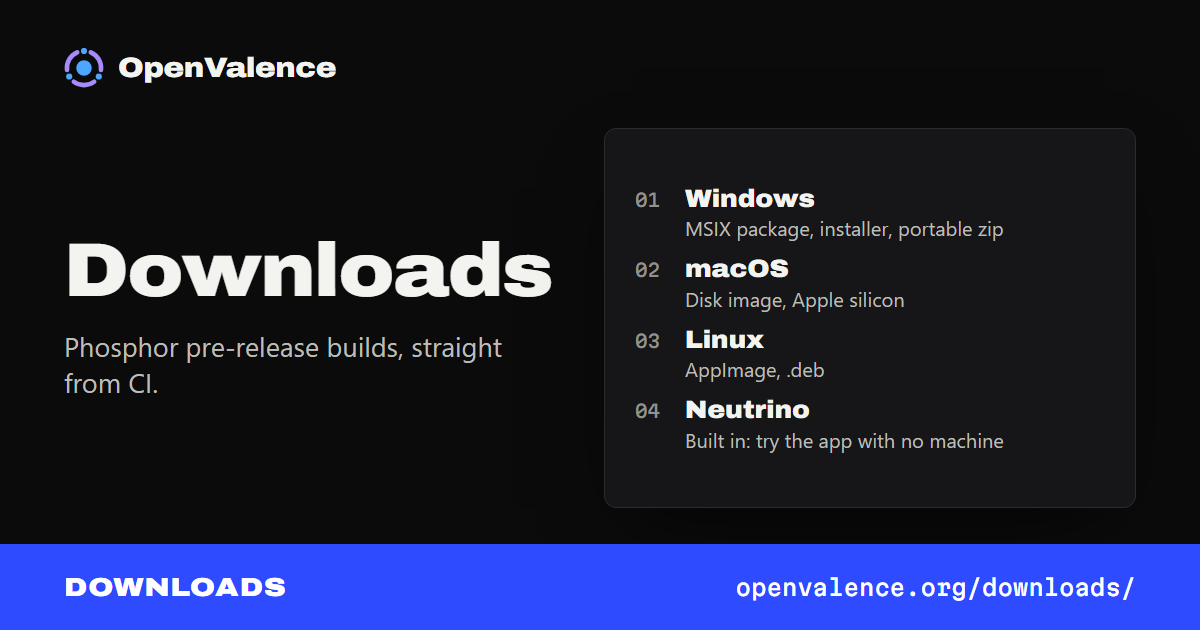
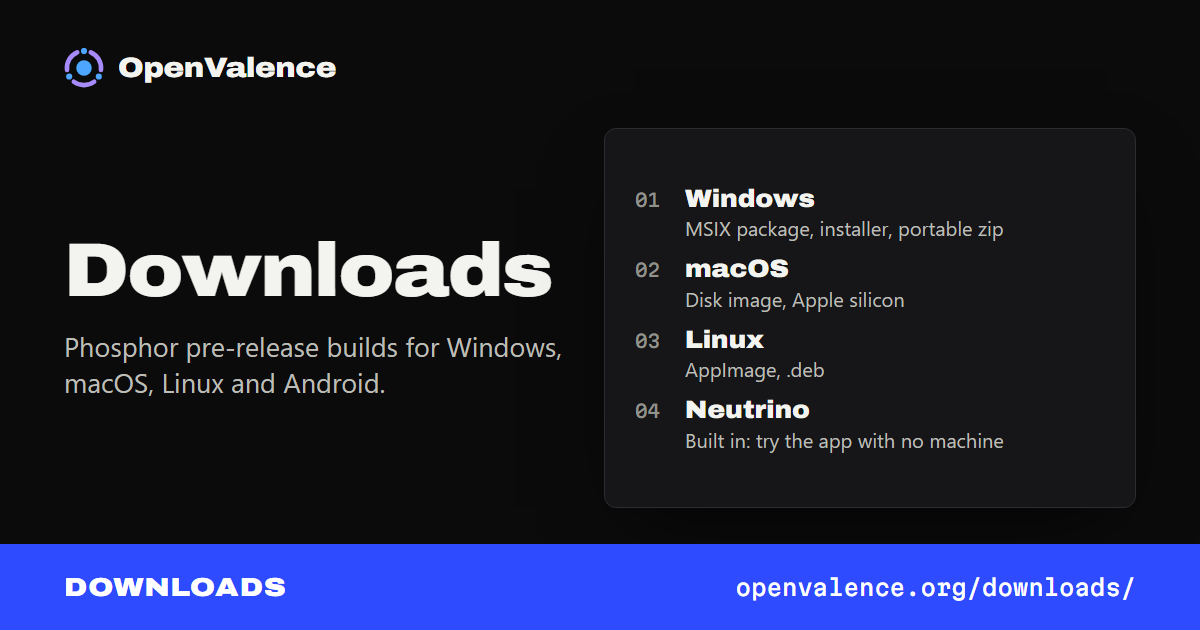
Neutrino has one name on the site: Neutrino, the built-in hub (was also the built-in machine, simulator, machine firmware); downloads card subject names the platforms

Changed region(s): [[0.0617, 0.573, 0.3392, 0.6333], [0.3392, 0.5127, 0.4625, 0.573]]

diff --git a/phosphor/docs/getting-started/index.html b/phosphor/docs/getting-started/index.html
@@ -4,7 +4,7 @@
 <meta charset="utf-8">
 <meta name="viewport" content="width=device-width, initial-scale=1">
 <title>Getting started: OpenValence</title>
-<meta name="description" content="Install Phosphor, launch it, try Neutrino, the built-in machine, with no hardware, then find a real machine. Includes a short tour of the main screens.">
+<meta name="description" content="Install Phosphor, launch it, try Neutrino, the built-in hub, with no hardware, then find a real machine. Includes a short tour of the main screens.">
 <link rel="canonical" href="https://openvalence.org/phosphor/docs/getting-started/">
 <meta property="og:type" content="website">
 <meta property="og:url" content="https://openvalence.org/phosphor/docs/getting-started/">
@@ -71,14 +71,14 @@
 <script src="https://stats.openvalence.org/stats.js" data-website-id="686ef328-490a-4ed2-b9df-1ce896b92dc3" data-domains="openvalence.org" data-do-not-track="true" defer></script>
 <meta property="og:site_name" content="OpenValence">
 <meta property="og:title" content="Getting started: OpenValence">
-<meta property="og:description" content="Install Phosphor, launch it, try Neutrino, the built-in machine, with no hardware, then find a real machine. Includes a short tour of the main screens.">
+<meta property="og:description" content="Install Phosphor, launch it, try Neutrino, the built-in hub, with no hardware, then find a real machine. Includes a short tour of the main screens.">
 <meta property="og:image" content="https://openvalence.org/images/og/phosphor-docs-getting-started.png?v=8151b5a4af">
 <meta property="og:image:width" content="1200">
 <meta property="og:image:height" content="630">
-<meta property="og:image:alt" content="Getting started: OpenValence. Install Phosphor, launch it, try Neutrino, the built-in machine, with no hardware, then find a real machine. Includes a short tour of the main screens.">
+<meta property="og:image:alt" content="Getting started: OpenValence. Install Phosphor, launch it, try Neutrino, the built-in hub, with no hardware, then find a real machine. Includes a short tour of the main screens.">
 <meta name="twitter:card" content="summary_large_image">
 <meta name="twitter:title" content="Getting started: OpenValence">
-<meta name="twitter:description" content="Install Phosphor, launch it, try Neutrino, the built-in machine, with no hardware, then find a real machine. Includes a short tour of the main screens.">
+<meta name="twitter:description" content="Install Phosphor, launch it, try Neutrino, the built-in hub, with no hardware, then find a real machine. Includes a short tour of the main screens.">
 <meta name="twitter:image" content="https://openvalence.org/images/og/phosphor-docs-getting-started.png?v=8151b5a4af">
 <!-- /chrome:head -->
 </head>
@@ -120,7 +120,7 @@
 <main>
   <section class="opening">
     <h1>Getting started</h1>
-    <p>Install Phosphor, try it on Neutrino, the built-in machine, then connect a real one. You do not need hardware for the first half.</p>
+    <p>Install Phosphor, try it on Neutrino, the built-in hub, then connect a real one. You do not need hardware for the first half.</p>
   </section>
 
   <section aria-labelledby="s-install">
@@ -136,7 +136,7 @@ npm run build:app -- --bundles nsis</code></pre>
   <section aria-labelledby="s-launch">
     <h2 id="s-launch" data-n="02">First launch<a class="hl" href="#s-launch" aria-label="Copy link to this section"></a></h2>
     <!-- src/App.svelte:160 (first run opens Hubs), 152-157 (sections); src/model/prefs.js:32 (reconnect default true); docs/DESIGN.md §10.11 lines 1183-1187 -->
-    <p>With no saved hub, Phosphor opens on the Hubs page. That page lists saved hubs, finds new ones and holds Neutrino, the built-in machine. From the second launch on, Phosphor reconnects to the last hub by default. The setting is Settings, Connection, "Reconnect to the last hub on launch", and it is on until you turn it off.</p>
+    <p>With no saved hub, Phosphor opens on the Hubs page. That page lists saved hubs, finds new ones and holds Neutrino, the built-in hub. From the second launch on, Phosphor reconnects to the last hub by default. The setting is Settings, Connection, "Reconnect to the last hub on launch", and it is on until you turn it off.</p>
     <p>The sidebar has three sections. Machine and Valence fill in once a hub's catalog has loaded. Phosphor, the third, is always there.</p>
   </section>
 
@@ -151,7 +151,7 @@ npm run build:app -- --bundles nsis</code></pre>
       <li>Open Dash in the Machine section.</li>
       <li>Open the Generator page, pick a pattern and start it. The rail on the Dash follows it.</li>
     </ol>
-    <figure class="docshot"><picture><source srcset="../img/gs-hubs-light.webp" data-hi="../img/hi/gs-hubs-light.webp" media="(prefers-color-scheme: light)"><img src="../img/gs-hubs-dark.webp" data-hi="../img/hi/gs-hubs-dark.webp" width="1280" height="800" alt="The Hubs page before connecting, with Neutrino, the built-in machine, listed under Saved hubs and the Find a hub controls below it." decoding="async"></picture><figcaption>The Hubs page before connecting.</figcaption></figure>
+    <figure class="docshot"><picture><source srcset="../img/gs-hubs-light.webp" data-hi="../img/hi/gs-hubs-light.webp" media="(prefers-color-scheme: light)"><img src="../img/gs-hubs-dark.webp" data-hi="../img/hi/gs-hubs-dark.webp" width="1280" height="800" alt="The Hubs page before connecting, with Neutrino, the built-in hub, listed under Saved hubs and the Find a hub controls below it." decoding="async"></picture><figcaption>The Hubs page before connecting.</figcaption></figure>
     <ol class="legend">
       <li>The Neutrino row, under Saved hubs.</li>
       <li>Connect starts it.</li>

diff --git a/privacy.html b/privacy.html
@@ -152,7 +152,7 @@
       <div><dt>Plugins and the pages they load</dt><dd>The app allows plugins to fetch <code>http</code> and <code>https</code> URLs. The plugins that ship with the app only contact addresses you configured. A plugin you install from elsewhere can contact whatever its author wrote it to; read its manifest before enabling it.</dd></div>
       <div><dt>Other programs on your computer</dt><dd>Phosphor runs a Buttplug server so that other software can drive the machine and your toys through it. It listens on the loopback address only (<code>127.0.0.1</code>, port 12345 by default), so only programs on the same computer can reach it. It never listens on your network unless you change that setting.</dd></div>
       <div><dt>Firmware updates</dt><dd>When you pick a firmware file, the app asks openvalence.org for our firmware list (flash/fw/index.json) to label it Official or Unrecognized. Nothing about the file or your machine is sent; the comparison runs on your computer. The file goes only to your machine.</dd></div>
-      <div><dt>Neutrino, the built-in simulator</dt><dd>It runs inside the app, as WebAssembly, and makes no network connections of its own.</dd></div>
+      <div><dt>Neutrino, the built-in hub</dt><dd>It runs inside the app, as WebAssembly, and makes no network connections of its own.</dd></div>
     </dl>
     <p>The app does not check for updates by itself. Updates arrive through whatever installed it: Flathub, or a download from GitHub.</p>
   </section>

diff --git a/downloads/index.html b/downloads/index.html
@@ -72,14 +72,14 @@
 <meta property="og:site_name" content="OpenValence">
 <meta property="og:title" content="Phosphor Pre-Release Builds: Downloads">
 <meta property="og:description" content="Phosphor pre-release builds for Windows, macOS and Linux. Try the app with no machine in Neutrino, the built-in firmware emulator.">
-<meta property="og:image" content="https://openvalence.org/images/og/downloads.png?v=897b64fa57">
+<meta property="og:image" content="https://openvalence.org/images/og/downloads.png?v=41489a2233">
 <meta property="og:image:width" content="1200">
 <meta property="og:image:height" content="630">
 <meta property="og:image:alt" content="Phosphor Pre-Release Builds: Downloads. Phosphor pre-release builds for Windows, macOS and Linux. Try the app with no machine in Neutrino, the built-in firmware emulator.">
 <meta name="twitter:card" content="summary_large_image">
 <meta name="twitter:title" content="Phosphor Pre-Release Builds: Downloads">
 <meta name="twitter:description" content="Phosphor pre-release builds for Windows, macOS and Linux. Try the app with no machine in Neutrino, the built-in firmware emulator.">
-<meta name="twitter:image" content="https://openvalence.org/images/og/downloads.png?v=897b64fa57">
+<meta name="twitter:image" content="https://openvalence.org/images/og/downloads.png?v=41489a2233">
 <!-- /chrome:head -->
 <script type="application/ld+json">
 {

diff --git a/index.html b/index.html
@@ -163,7 +163,7 @@
         <!-- data-app: the Phosphor mini build (Phosphor repo, npm run build:mini, memory only), live over the poster where site.js's gate allows -->
         <div class="frame" data-app="https://phosphor.openvalence.org/mini/" data-title="Phosphor, live in your browser, driving Neutrino with the Advanced pattern">
           <span class="tall" role="img" aria-label="Phosphor on a phone, connected to Neutrino: the position readout, the safety buttons and the Advanced pattern card with its speed and stroke shape."></span>
-          <video data-auto muted loop playsinline controls preload="none" width="1280" height="800" poster="/images/phosphor/hero-poster.webp" data-hi-poster="/images/phosphor/hi/hero-poster.webp" aria-label="Phosphor playing a funscript against Neutrino, the machine firmware built into the app: the timeline scrolls and the position marker follows it along the rail.">
+          <video data-auto muted loop playsinline controls preload="none" width="1280" height="800" poster="/images/phosphor/hero-poster.webp" data-hi-poster="/images/phosphor/hi/hero-poster.webp" aria-label="Phosphor playing a funscript against Neutrino, the built-in hub: the timeline scrolls and the position marker follows it along the rail.">
             <source src="/images/phosphor/hero.webm" type="video/webm">
           </video>
         </div>

diff --git a/phosphor/index.html b/phosphor/index.html
@@ -149,7 +149,7 @@
   <div class="stage">
   <figure class="feature-hero">
     <div class="frame"><picture><source srcset="/images/phosphor/dash-light.webp" data-hi="/images/phosphor/hi/dash-light.webp" media="(prefers-color-scheme: light)"><img src="/images/phosphor/dash-dark.webp" data-hi="/images/phosphor/hi/dash-dark.webp" width="1280" height="800" alt="The Phosphor Dash connected to Neutrino with a pattern running, showing the large position readout, the position rail with a moving comet, the telemetry chart with two sine traces and the pattern controls." fetchpriority="high" decoding="async"></picture></div>
-    <figcaption>The Dash, connected to Neutrino, the built-in machine, with a pattern running.</figcaption>
+    <figcaption>The Dash, connected to Neutrino, the built-in hub, with a pattern running.</figcaption>
   </figure>
   </div>
 
